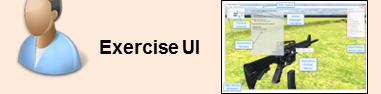
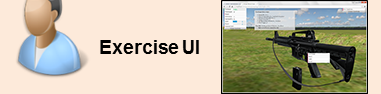
Added remaining tool description text. Updated tool images to current (still need to add key numbers to graphic). Minor formatting. Added copyright to html.

diff --git a/public/html/tool-eui-i.html b/public/html/tool-eui-i.html
@@ -1,4 +1,5 @@
 <!DOCTYPE html>
+<!-- Copyright 2015, SRI International -->
 <html>
 
 <head>
@@ -23,7 +24,7 @@
 		<img class="img-pointer" src="images/pointer.png">
 	</div>
 	<div id="tool-focus">
-		<img class="img-tool" src="images/tool-eui.png">
+		<img class="img-tool" src="images/tool-eui-i.png">
 		<div id="tool-header">
 			<div id="tool-title">
 				<h2>Exercise UI (Instructor Mode)</h2>
@@ -35,16 +36,17 @@
 			</div>
 		</div>
 		<div id="tool-text">
-			<p>Short description.</p>
+			<p>The EUI allows you, as the instructor, to record interactions to serve as the basis for a solution, which the student will later be assessed against. Note the EUI in instructor mode has a red bar at the top.</p>
 			<ol>
-				<li> Lorem ipsum dolor sit amet, consectetur adipiscing elit.</li>
-				<li> Nulla maximus tortor vehicula, congue odio nec, aliquet eros.</li>
-				<li> Mauris vulputate leo non commodo pellentesque.</li>
-				<li> Sed lobortis orci at dui blandit facilisis.</li>
-				<li> Vestibulum malesuada lacus at purus hendrerit euismod non a felis.</li>
-				<li> Nulla gravida lorem ut dignissim imperdiet.</li>
+				<li>The EUI is launched via the CAT (previous step).</li>
+				<li>Load the M4 model by selecting the M4 Carbine button in the upper-right corner</li>
+				<li>Click on the relevant areas of the object to initiate actions. A context menu shows the available actions</li>
+				<li>Perform the exercise steps in sequence. Click 'M4 Solution Example' above for the correct order.</li>
+				<li>If you make a mistake during the exercise, select the Reset button to start over.</li>
+				<li>Select the "Save Solution" button to write the exercise file to the repository.</li>
 			</ol>
-			<p>Brief results.</p>
+			<p>Result: the exercise file is written to the exercise repository.</p>
+			<p>Next, you will refine the solution in the ESE.</p>
 		</div>
 	</div>
 </center>

diff --git a/public/html/tool-eui-s.html b/public/html/tool-eui-s.html
@@ -1,4 +1,5 @@
 <!DOCTYPE html>
+<!-- Copyright 2015, SRI International -->
 <html>
 
 <head>
@@ -23,7 +24,7 @@
 		<img class="img-pointer" src="images/pointer.png">
 	</div>
 	<div id="tool-focus">
-		<img class="img-tool" src="images/tool-eui.png">
+		<img class="img-tool" src="images/tool-eui-s.png">
 		<div id="tool-header">
 			<div id="tool-title">
 				<h2>Exercise UI (Student Mode)</h2>
@@ -33,16 +34,15 @@
 			</div>
 		</div>
 		<div id="tool-text">
-			<p>Short description.</p>
+			<p>The EUI allows you, as the student, to perform the exercise and afterwards be assessed against the instructor's solution.</p>
 			<ol>
-				<li> Lorem ipsum dolor sit amet, consectetur adipiscing elit.</li>
-				<li> Nulla maximus tortor vehicula, congue odio nec, aliquet eros.</li>
-				<li> Mauris vulputate leo non commodo pellentesque.</li>
-				<li> Sed lobortis orci at dui blandit facilisis.</li>
-				<li> Vestibulum malesuada lacus at purus hendrerit euismod non a felis.</li>
-				<li> Nulla gravida lorem ut dignissim imperdiet.</li>
+				<li>The EUI is launched by selecting an exercise URL. Click the button to the right to show exercises available.</li>
+				<li>Load objects into the scene by selecting available buttons (e.g. M4 Carbine) in the EUI upper-right corner.</li>
+				<li>Click on the relevant areas of the object to initiate actions. A context menu shows the available actions.</li>
+				<li>Perform the exercise steps in sequence.</li>
+				<li>When complete, select the Assessment button in the EUI upper-left corner to receive feedback.</li>
 			</ol>
-			<p>Brief results.</p>
+			<p>Result: the assessment is displayed in a window within the EUI, summarizing any errors that you made.</p>
 		</div>
 	</div>
 </center>

diff --git a/public/html/tool-ese.html b/public/html/tool-ese.html
@@ -1,4 +1,5 @@
 <!DOCTYPE html>
+<!-- Copyright 2015, SRI International -->
 <html>
 
 <head>
@@ -35,16 +36,17 @@
 			</div>
 		</div>
 		<div id="tool-text">
-			<p>Short description.</p>
+			<p>The ESE enables the content author to view demonstrated action traces (created with the EUI in the previous step) and add annotations to the action traces to capture allowed generalizations.</p>
+			<p>Note, the ESE is Java-based and must be manually launched outside the browser by the user. The ESE requires Java 7, due to an incompatible change to JavaFX in Java 8.</p>
 			<ol>
-				<li> Lorem ipsum dolor sit amet, consectetur adipiscing elit.</li>
-				<li> Nulla maximus tortor vehicula, congue odio nec, aliquet eros.</li>
-				<li> Mauris vulputate leo non commodo pellentesque.</li>
-				<li> Sed lobortis orci at dui blandit facilisis.</li>
-				<li> Vestibulum malesuada lacus at purus hendrerit euismod non a felis.</li>
-				<li> Nulla gravida lorem ut dignissim imperdiet.</li>
+				<li>Run "ese.bat" (Windows) or "ese" (Linux) in the ese/bin directory.</li>
+				<li>Use the 'Open URL' button to load the exercise solution, previously written to the SAVE repository.</li>
+				<li>The ESE displays the generalized action trace from the content developer's solution demonstration</li>
+				<li>Add annotations to the solution to indicate allowed generalities.</li>
+				<li>Click on the 'Put As to Server' button. Specify a new file name for the revised exercise file.</li>
 			</ol>
-			<p>Brief results.</p>
+			<p>Result: the revised exercise file is written back to the exercise repository.</p>
+			<p>Next, the student will be able to run the exercie in the EUI.</p>
 		</div>
 	</div>
 </center>

diff --git a/public/html/tool-cat.html b/public/html/tool-cat.html
@@ -1,4 +1,5 @@
 <!DOCTYPE html>
+<!-- Copyright 2015, SRI International -->
 <html>
 
 <head>
@@ -36,7 +37,7 @@
 			<p>The CAT allows you to build a 3D scenario for an interactive training exercise. 
 			You load the semantically annotated models and place them in the scene.</p>
 			<ol>
-				<li>Start the tool by clicking the 'Launch CAT' button to the right.</li>
+				<li>Start the tool by clicking the 'Launch CAT' button to the right. The empty scene will be gray.</li>
 				<li>Select and load the example background asset 'Shooting Range'.</li>
 				<li>Open the 'Shooting Range' menu on the left. Ensure that 'visible' and 'auto load' are checked.</li>
 				<li>Select and load the example asset: M4 Carbine.</li>
@@ -44,8 +45,9 @@
 				<li>Move the M4 up by entering the number 2 in the Z field under the M4 Carbine menu.</li>
 				<li>Rotate the M4 around one axis at a time to place it in the proper orientation.</li>
 				<li>Enter the path and exercise name in the 'Path' field. Then select Save Exercise.</li>
+				<li>Click the Open button to launch this initial scene in the Exercise UI (next step).</li>
 			</ol>
-			<p>Your initial exercise file, containing this scene information, is written to the server and can then be opened in the Exercise UI next.</p>
+			<p>Next, you will specify the exercise solution in the Exercise UI.</p>
 		</div>
 	</div>
 </center>

diff --git a/public/html/index.html b/public/html/index.html
@@ -1,4 +1,5 @@
 <!DOCTYPE html>
+<!-- Copyright 2015, SRI International -->
 <html>
 
 <head>
@@ -118,7 +119,7 @@
 				<img id="f3" src="images/tools-file-s3d.png" width="381" height="54">
 				<img id="t2" src="images/tools-cat.png" width="381" height="96">
 				<img id="f4" src="images/tools-file-scene.png" width="381" height="57">
-				<img id="t3" src="images/tools-eui-a.png" width="381" height="95">
+				<img id="t3" src="images/tools-eui-i.png" width="381" height="95">
 				<img id="f5" src="images/tools-file-xml1.png" width="381" height="55">
 				<img id="t4" src="images/tools-ese.png" width="381" height="98">
 				<img id="f6" src="images/tools-file-xml2.png" width="381" height="56">
@@ -156,8 +157,9 @@
 	</div>
 		
 	<div id="footer">
-		<p>Copyright 2015 SRI International</p>
+		<p class="foot">Copyright 2015, SRI International</p>
 	</div>
+</div>
 </center>
 
 </body>

diff --git a/public/index.html b/public/index.html
@@ -1,4 +1,5 @@
 <!DOCTYPE html>
+<!-- Copyright 2015, SRI International -->
 <html>
 <body onload="window.location = 'html/index.html'" />
 </html>

diff --git a/public/html/save.css b/public/html/save.css
@@ -25,6 +25,9 @@ li {
 	text-align: left;
 }
 
+p.foot {
+	text-align: center;
+}
 .img-tool {
 	width: 742px;
 	height: 475px;

diff --git a/public/404.html b/public/404.html
@@ -1,4 +1,5 @@
 <!DOCTYPE html>
+<!-- Copyright 2015, SRI International -->
 <html>
 
 <head>

diff --git a/public/html/file-collada.html b/public/html/file-collada.html
@@ -1,4 +1,5 @@
 <!DOCTYPE html>
+<!-- Copyright 2015, SRI International -->
 <html>
 
 <head>

diff --git a/public/html/file-eui.html b/public/html/file-eui.html
@@ -1,4 +1,5 @@
 <!DOCTYPE html>
+<!-- Copyright 2015, SRI International -->
 <html>
 
 <head>

diff --git a/public/html/file-exercise.html b/public/html/file-exercise.html
@@ -1,4 +1,5 @@
 <!DOCTYPE html>
+<!-- Copyright 2015, SRI International -->
 <html>
 
 <head>

diff --git a/public/html/file-flora.html b/public/html/file-flora.html
@@ -1,4 +1,5 @@
 <!DOCTYPE html>
+<!-- Copyright 2015, SRI International -->
 <html>
 
 <head>
